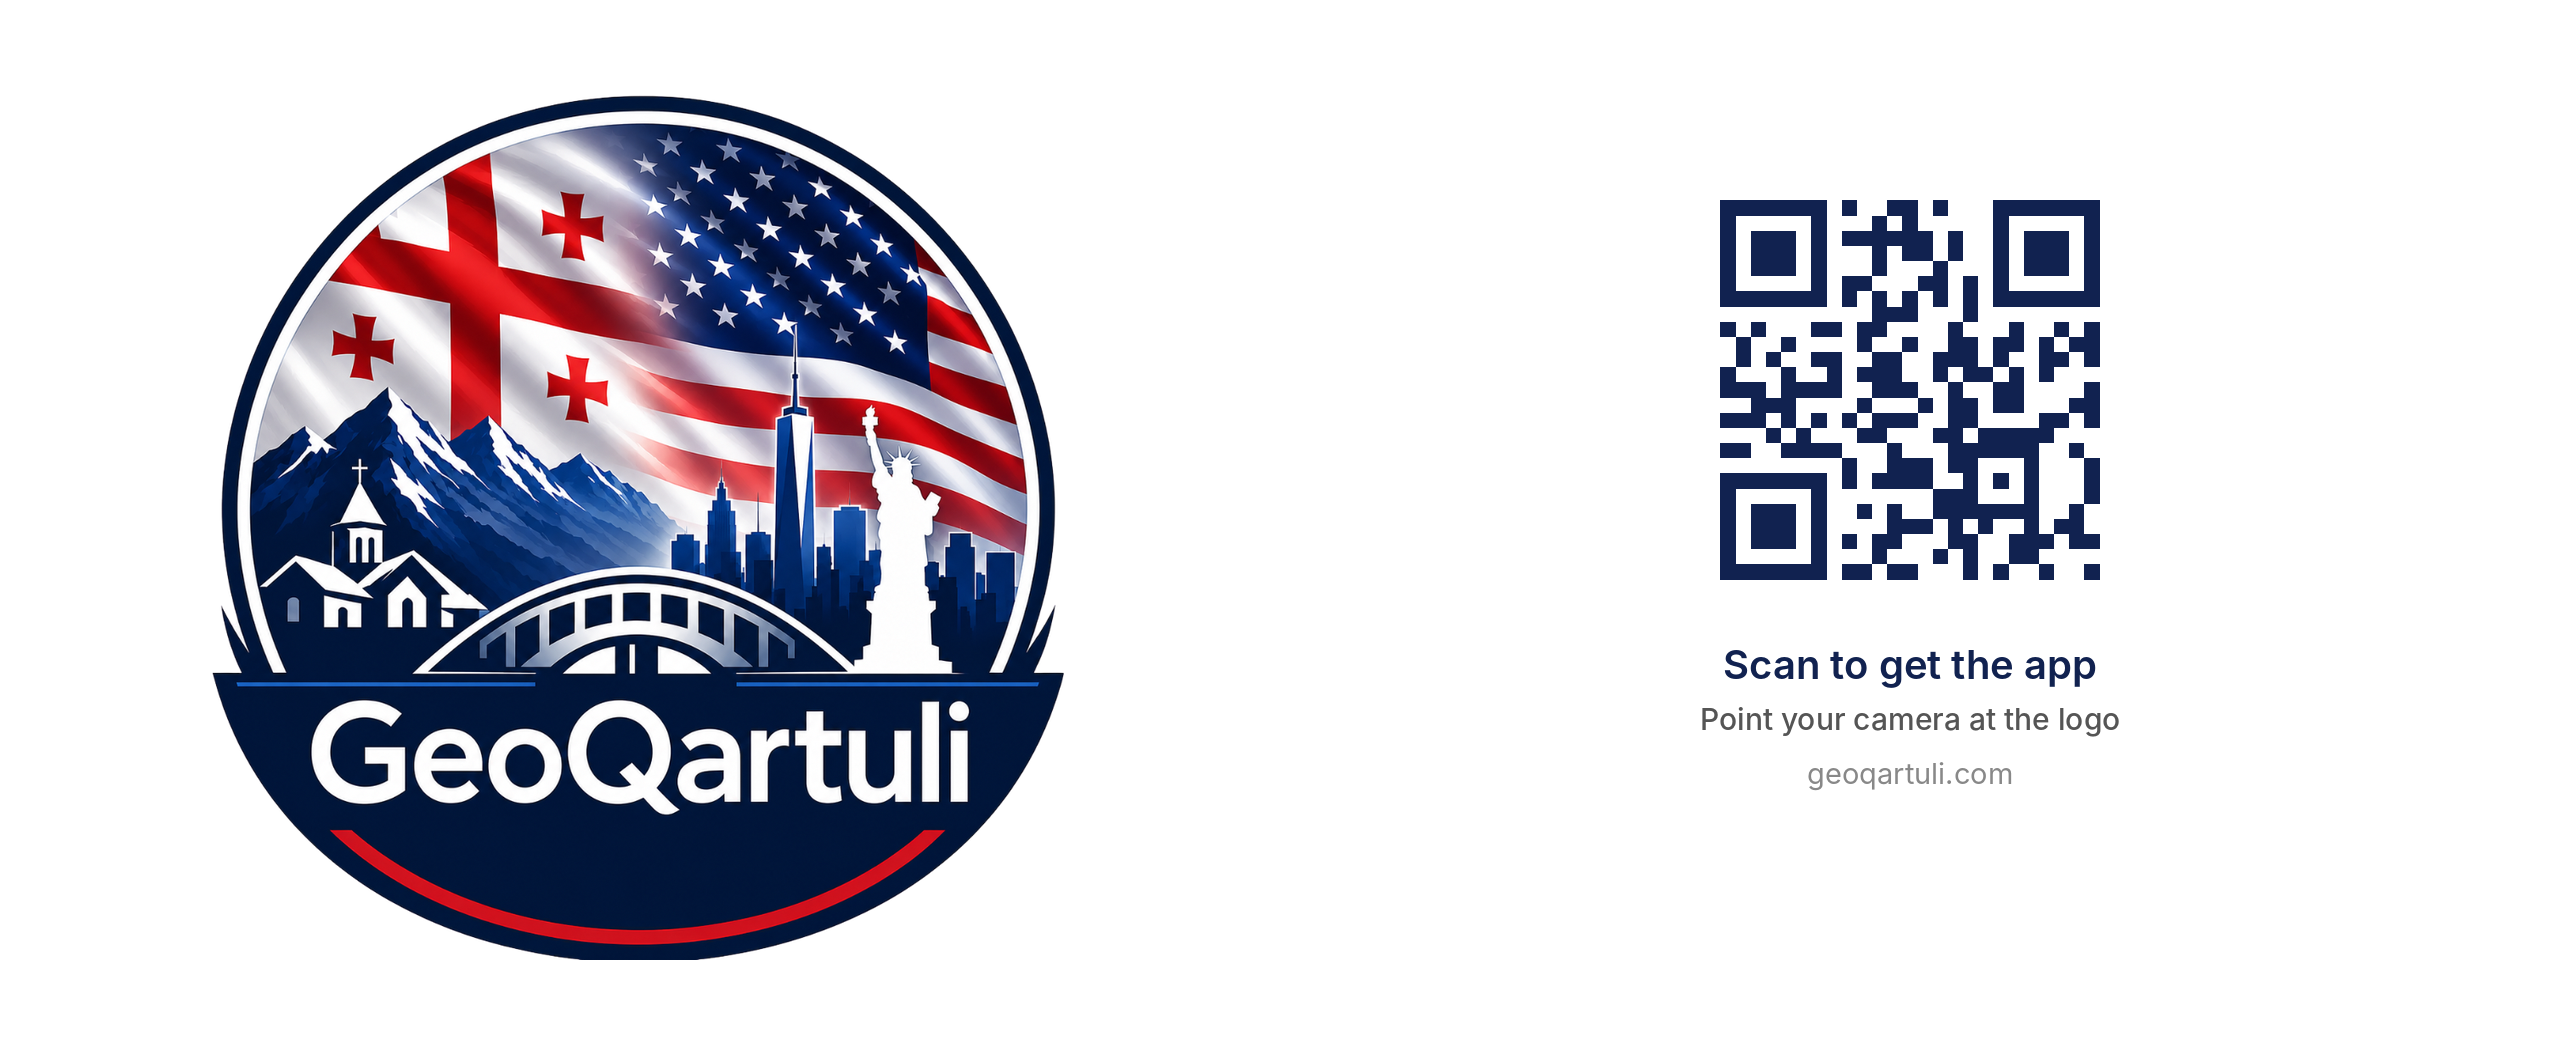
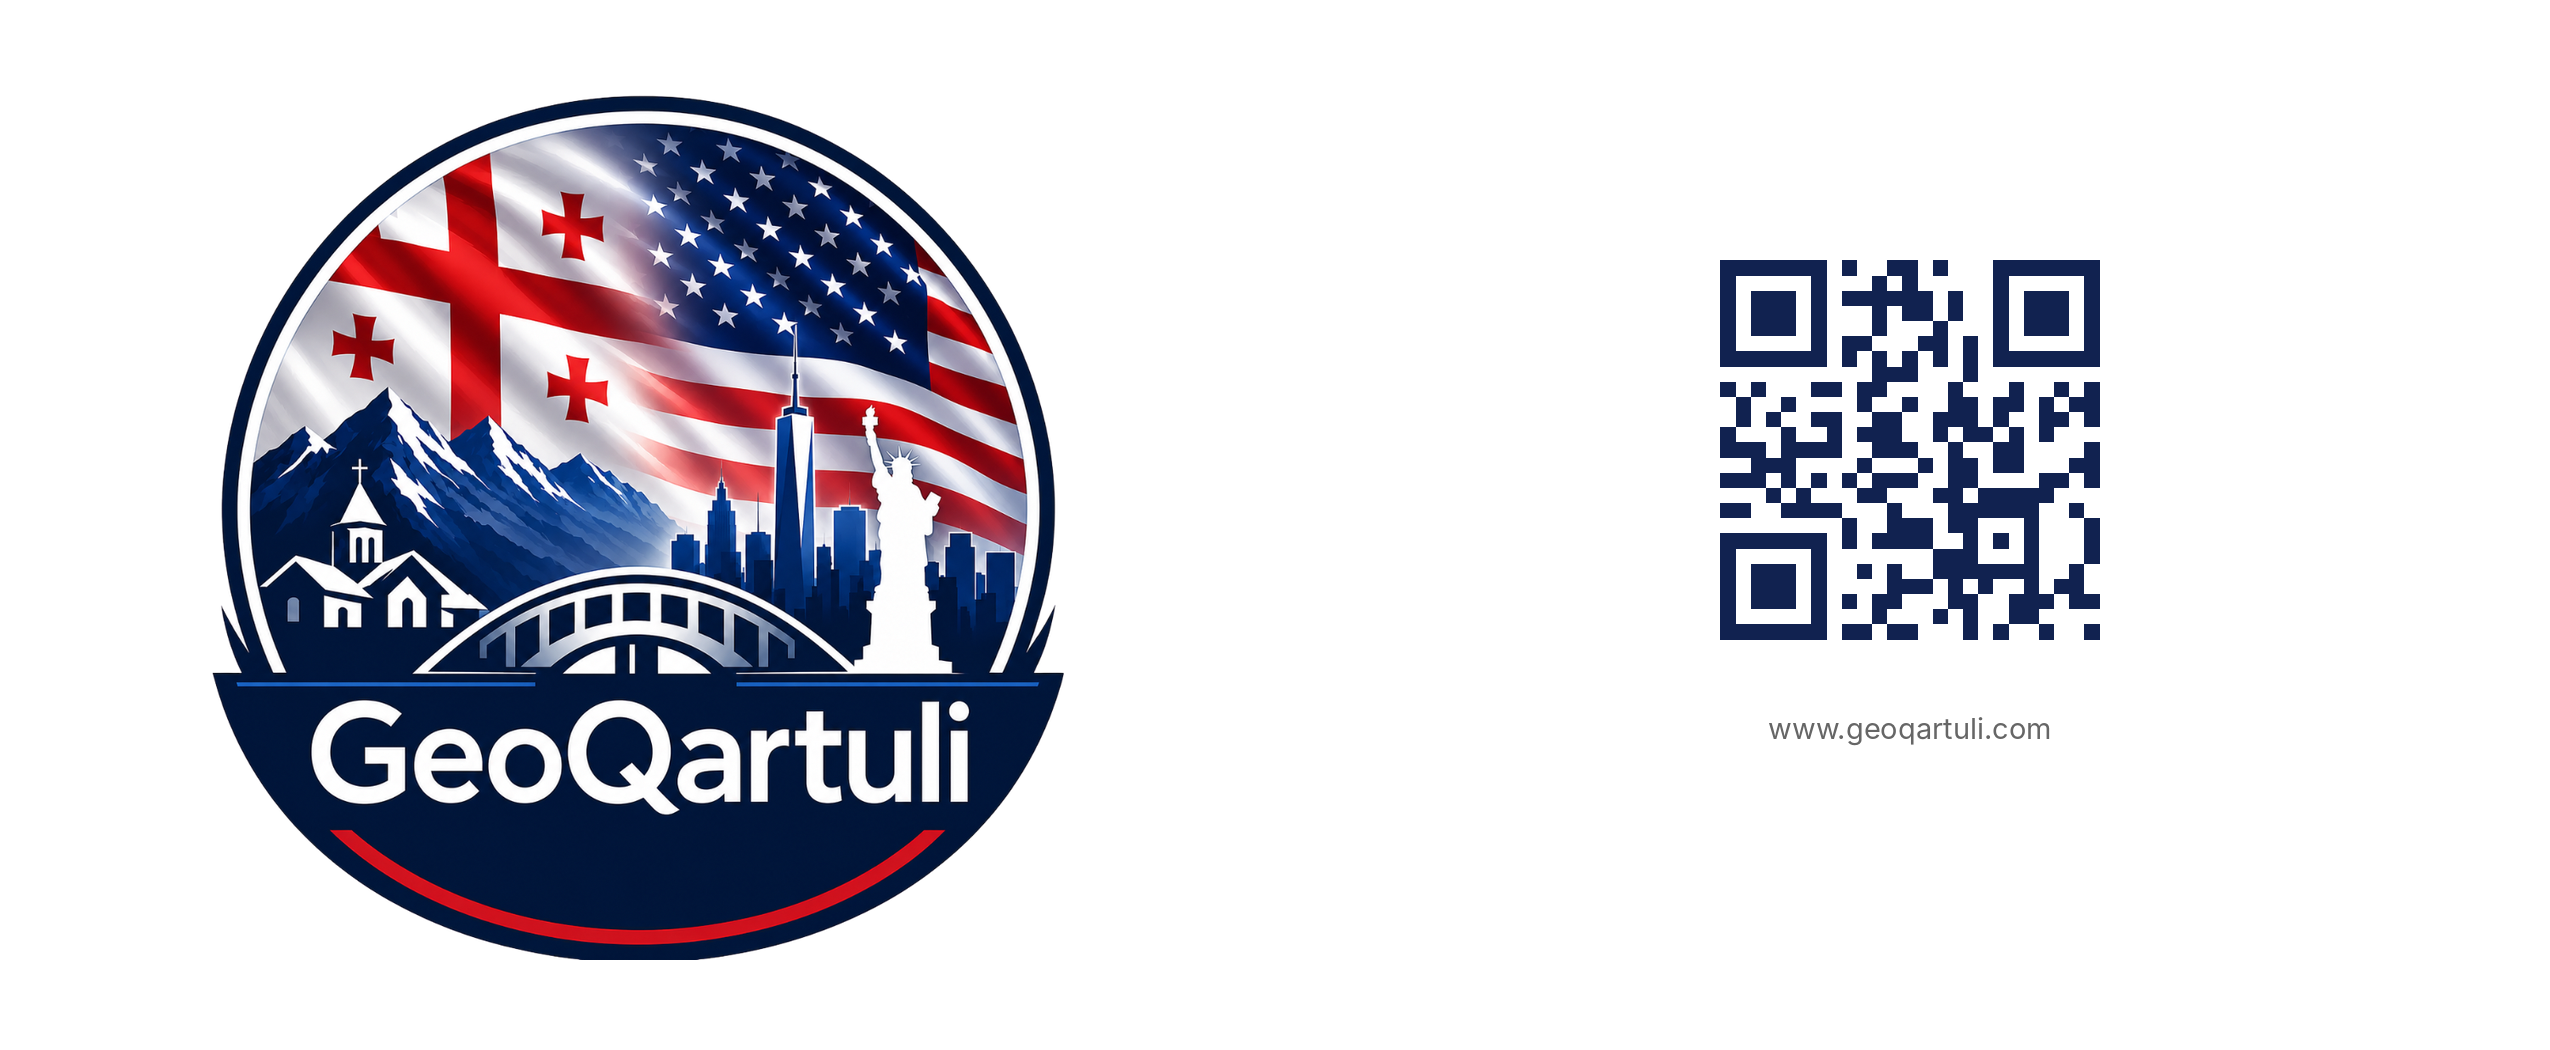
Only the site name under the QR
Claude-Session: https://claude.ai/code/session_01GNQE7cuQzpnCHruj24YMxR

Changed region(s): [[0.6506, 0.1829, 0.8365, 0.701], [0.7125, 0.7314, 0.8055, 0.7619]]

diff --git a/test.html b/test.html
@@ -9,5 +9,5 @@ body{margin:0;min-height:100vh;background:#fff;display:flex;align-items:center;j
 .qr b{font-size:20px}.qr p{margin:6px 0;color:#555}
 </style></head><body>
 <img class="logo" src="logo_big.png" alt="GeoQartuli logo">
-<div class="qr"><img src="qr.png?v=2" alt="QR"><b>1. Scan this QR</b><p>2. Tap Start, allow camera</p><p>3. Point the camera at the logo</p></div>
+<div class="qr"><img src="qr.png?v=2" alt="QR"><p style="font-size:15px;color:#666;letter-spacing:.3px">www.geoqartuli.com</p></div>
 </body></html>
